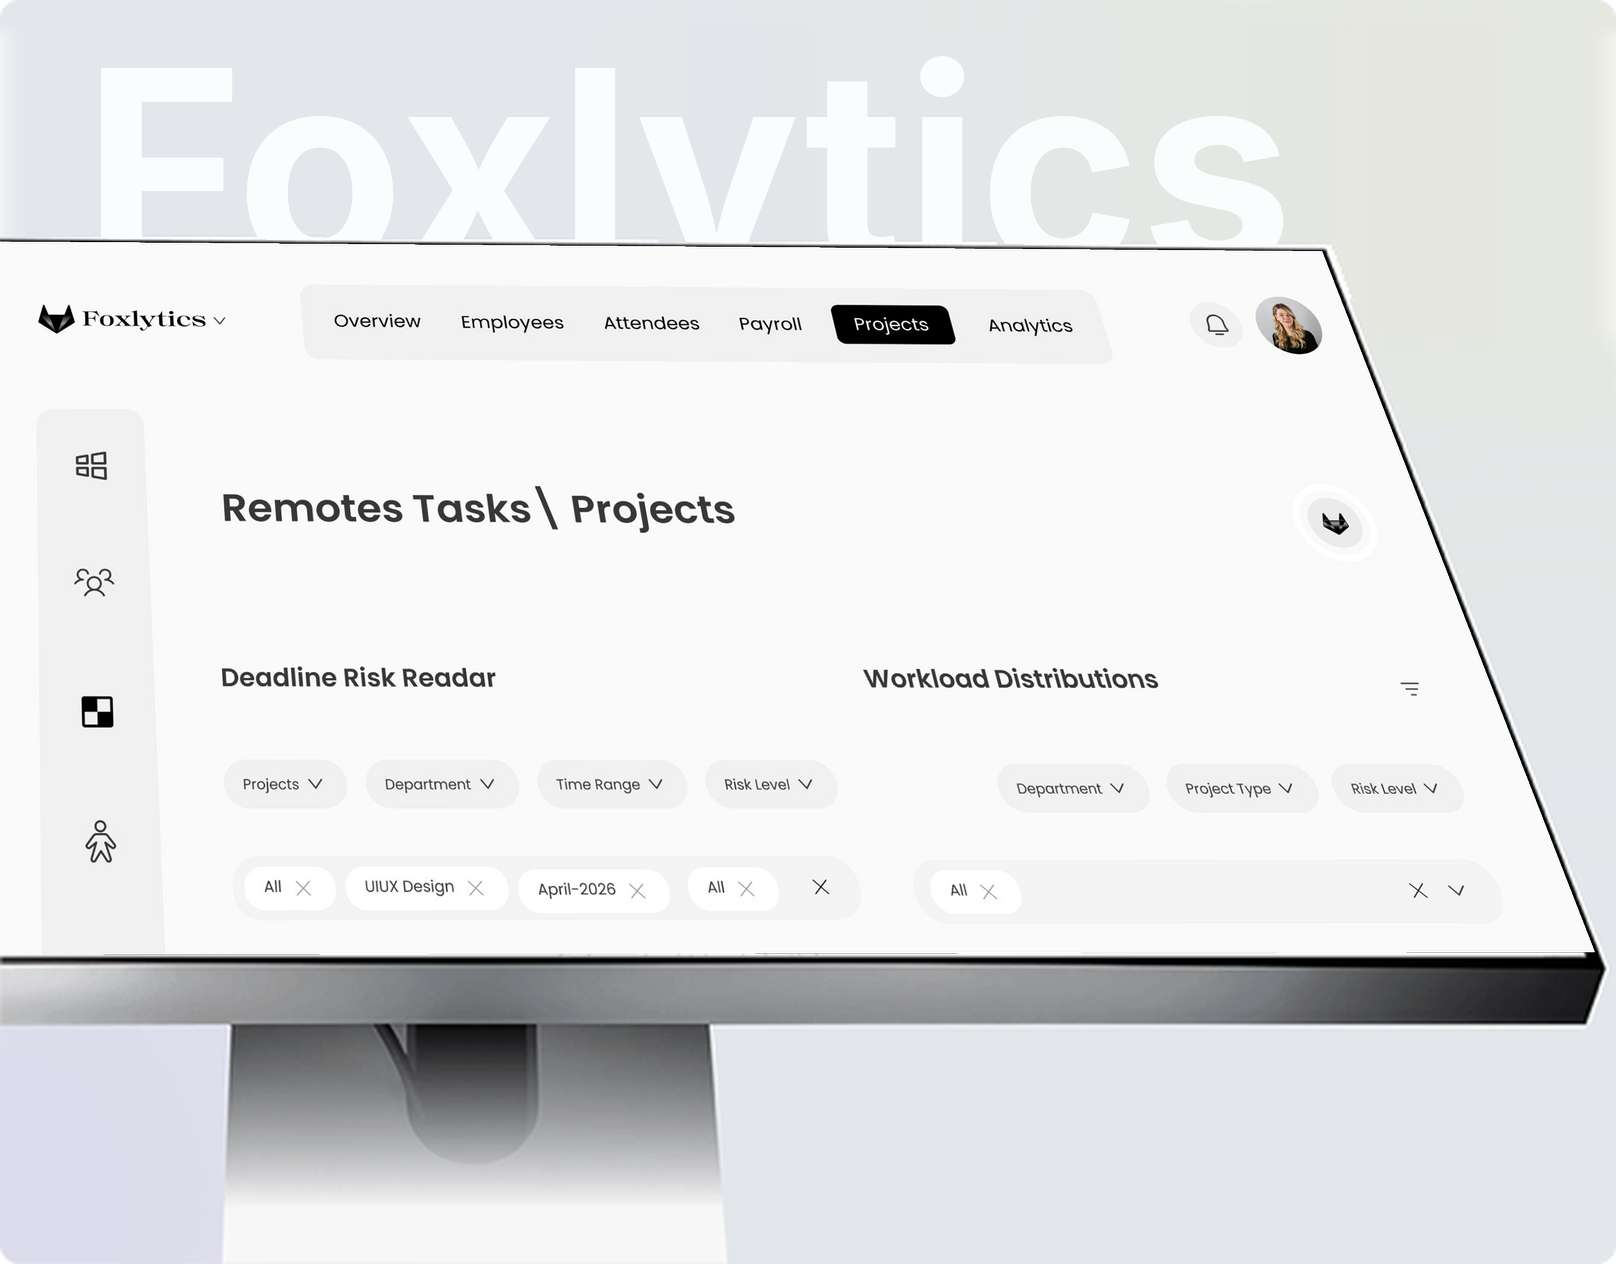
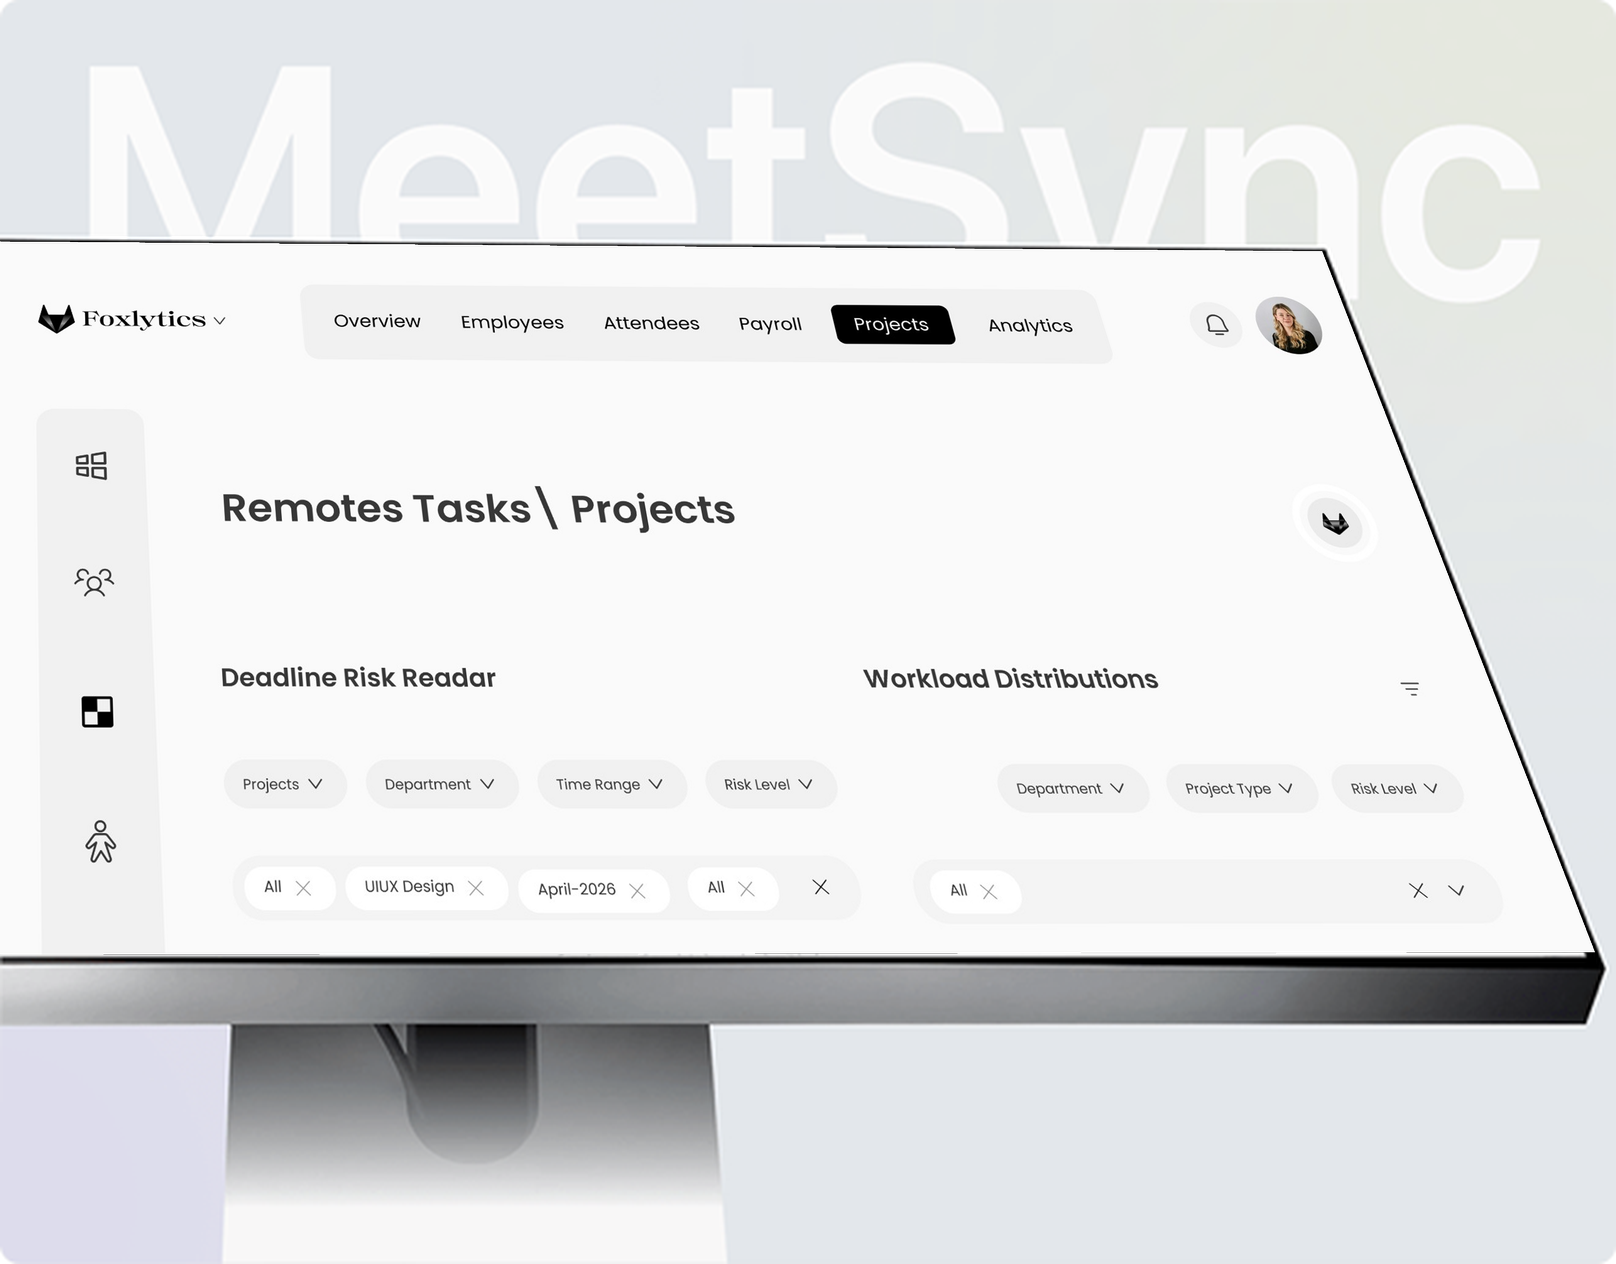
Behance mockups: keep each reference scene exactly as it is, screen replaced only
Claude-Session: https://claude.ai/code/session_01FdYAnoP1AuAPuCnLWf7gdc

diff --git a/behance-cover/mockups/mock5.py b/behance-cover/mockups/mock5.py
@@ -119,7 +119,7 @@ SCENES = {
     'flowers':  dict(src='114.webp', card=(12, 0, 672, 516), quad=[(270, 155.5), (433.5, 177.5), (427, 278), (264, 254)],
                      radius=2, keep_color=flowers_114),
     'meetsync': dict(src='115.png', card=(56, 27, 716, 543), quad=[(56, 125.5), (596, 129.5), (707.5, 416), (56, 417)],
-                     clean=clean_115, text=text_115, top=0),
+                     top=0),
     'dark-stand': dict(src='116.webp', card=(22, 49, 682, 565), quad=[(94, 138), (593, 210), (589, 533), (102, 433)],
                      clean=clean_116a),
     'tablet':   dict(src='116.webp', card=(730, 49, 1390, 565), quad=[(822, 179), (1298, 177), (1323, 441), (797, 441)], radius=9),
